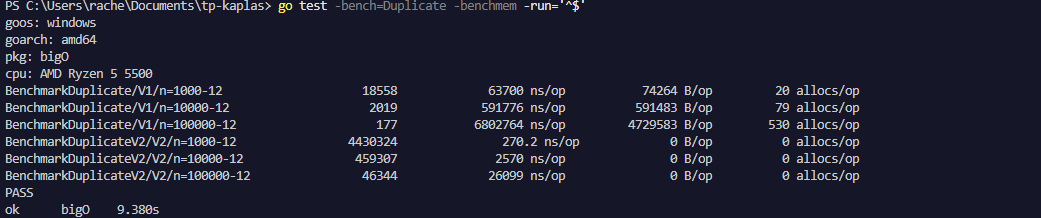
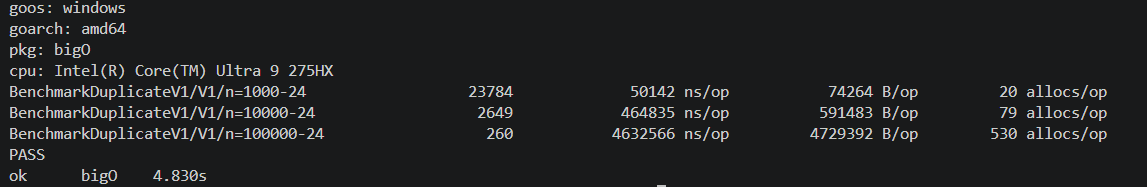
fixe : readme & kaplas_test (rajout de V1 et V2 au nom pour lancer les bench)

diff --git a/kaplas_test.go b/kaplas_test.go
@@ -16,7 +16,7 @@ func BenchmarkSmallest(b *testing.B) {
 		})
 	}
 }
-func BenchmarkDuplicate(b *testing.B) {
+func BenchmarkDuplicateV1(b *testing.B) {
 	for _, n := range []int {1_000, 10_000, 100_000} {
 		pile := WithDuplicate(n, 3) // préparation hors de la mesure
 		b.Run(fmt.Sprintf("V1/n=%d", n), func(b *testing.B) {
@@ -36,7 +36,7 @@ func BenchmarkDuplicateV2(b *testing.B) {
 		})
 	}
 }
-func BenchmarkTowerHeight(b *testing.B){
+func BenchmarkTowerHeightV1(b *testing.B){
 	for _, n := range []int{1_000, 10_000, 100_000}{
 		b.Run(fmt.Sprintf("V1/n=%d", n),func(b *testing.B) {
 			for i := 0; i < b.N; i++ {

diff --git a/readme.md b/readme.md
@@ -18,7 +18,7 @@ la complexité est de niveau O(n)<br>
 
 Nous ne pouvons pas la réduire à O(1) dit "constant", car le slice doit parcourir "n" nombre en fonction du nombre d'éléments présent dans le slice.<br>
 
-**Commande pour lancer le bench :** _go test -bench=Smallest -benchmem -run='^$'_<br>
+**Commande pour lancer le bench :** _go test -bench=SmallestV1 -benchmem -run='^$'_<br>
 
 --------------------------------------<br>
 
